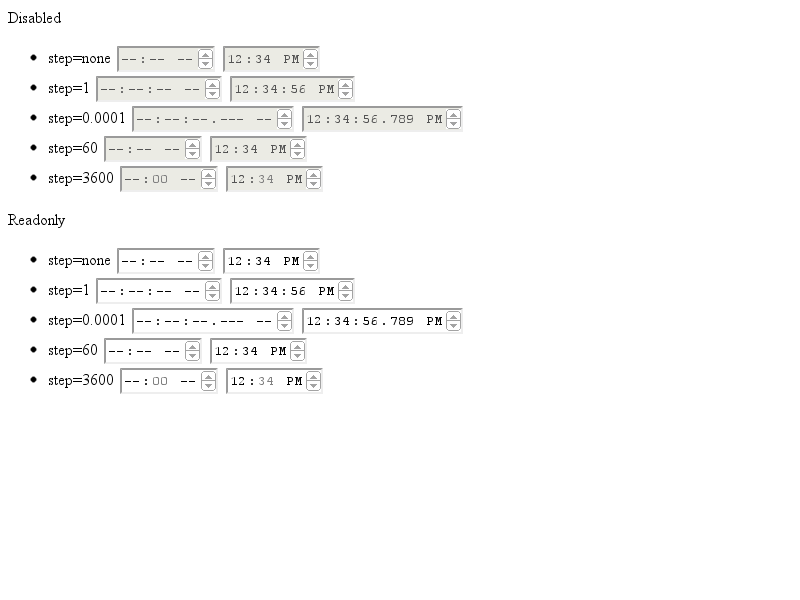
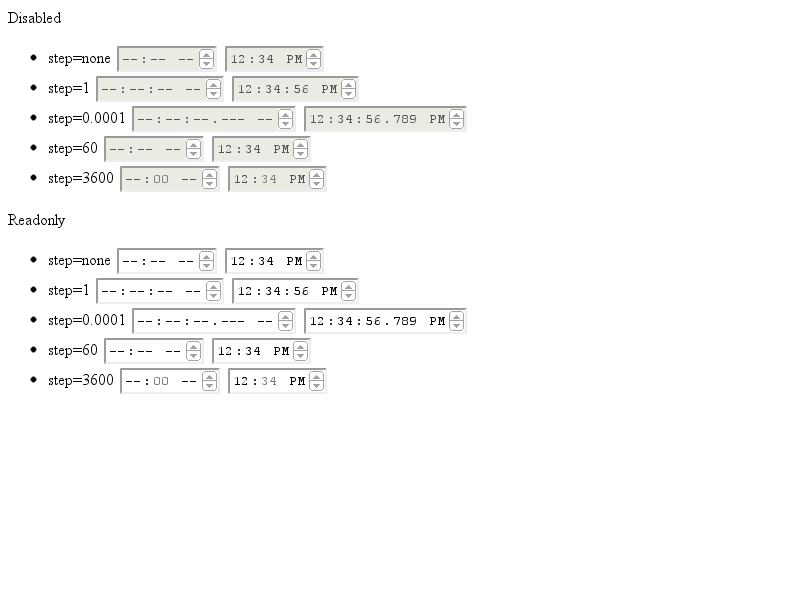
[Tests] time-multiple-fields-appearance-basic.html and time-multiple-fields-appearance-pseudo-elements.html are failed on Chromium Mac https://bugs.webkit.org/show_bug.cgi?id=94439
Reviewed by Kent Tamura.

Source/WebCore:

This patch disabled CSS selector for Firefox compatibility applied to
multiple fields time input UI, because it is supposed to apply text
field rather than multiple fields.

This patch allows us to have same appearance among Chromium-Linux,
Mac and Win.

No new tests. Following existing tests cover this change:
  fast/forms/time-multiple-fields/time-multiple-fields-appearance-basic.html
  fast/forms/time-multiple-fields/time-multiple-fields-appearance-disabled-readonly.html
  fast/forms/time-multiple-fields/time-multiple-fields-appearance-pseudo-classes.html
  fast/forms/time-multiple-fields/time-multiple-fields-appearance-pseudo-elements.html
  fast/forms/time-multiple-fields/time-multiple-fields-appearance-style.html

* css/themeWin.css: Exclude input[type="time"] selector if ENABLE_INPUT_TYPE_TIME_MULTIPLE_FIELDS
enabled.

LayoutTests:

This patch updates expected images of multiple fields time input UI for
Chromium-Linux and CSS selectors for expected HTML file for changing
of Source/WebCore/css/themeWin.css.

* fast/forms/time-multiple-fields/resources/time-multiple-fields-appearance.css:
(.host): Changed padding property.
(.ampmField): Remove wrong property.
(.hourField): ditto
(.millisecondField): ditto
(.minuteField): ditto
(.secondField): ditto
* platform/chromium-linux/fast/forms/time-multiple-fields/time-multiple-fields-appearance-disabled-readonly-expected.png:
[…]

diff --git a/fast/forms/time-multiple-fields/resources/time-multiple-fields-appearance.css b/fast/forms/time-multiple-fields/resources/time-multiple-fields-appearance.css
@@ -8,9 +8,7 @@ span[type="time"] {
 
 .host {
     box-sizing: border-box;
-
-    padding: 1px 0px;
-
+    padding: 1px;
     -webkit-appearance: textfield;
     background-color: white;
     border: 2px inset;
@@ -38,7 +36,6 @@ span[type="time"] {
 
 .ampmField {
     border: none;
-    --width: 2em;
     padding: 0.15em;
 }
 
@@ -46,7 +43,6 @@ span[type="time"] {
     display: inline-block;
     border: none;
     text-align: center;
-    --width: 1.2em;
     padding: 0.15em;
 }
 
@@ -54,7 +50,6 @@ span[type="time"] {
     display: inline-block;
     border: none;
     text-align: center;
-    --width: 1.8em;
     padding: 0.15em;
 }
 
@@ -62,7 +57,6 @@ span[type="time"] {
     display: inline-block;
     border: none;
     text-align: center;
-    --width: 1.2em;
     padding: 0.15em;
 }
 
@@ -70,7 +64,6 @@ span[type="time"] {
     display: inline-block;
     border: none;
     text-align: center;
-    --width: 1.2em;
     padding: 0.15em;
 }
 
